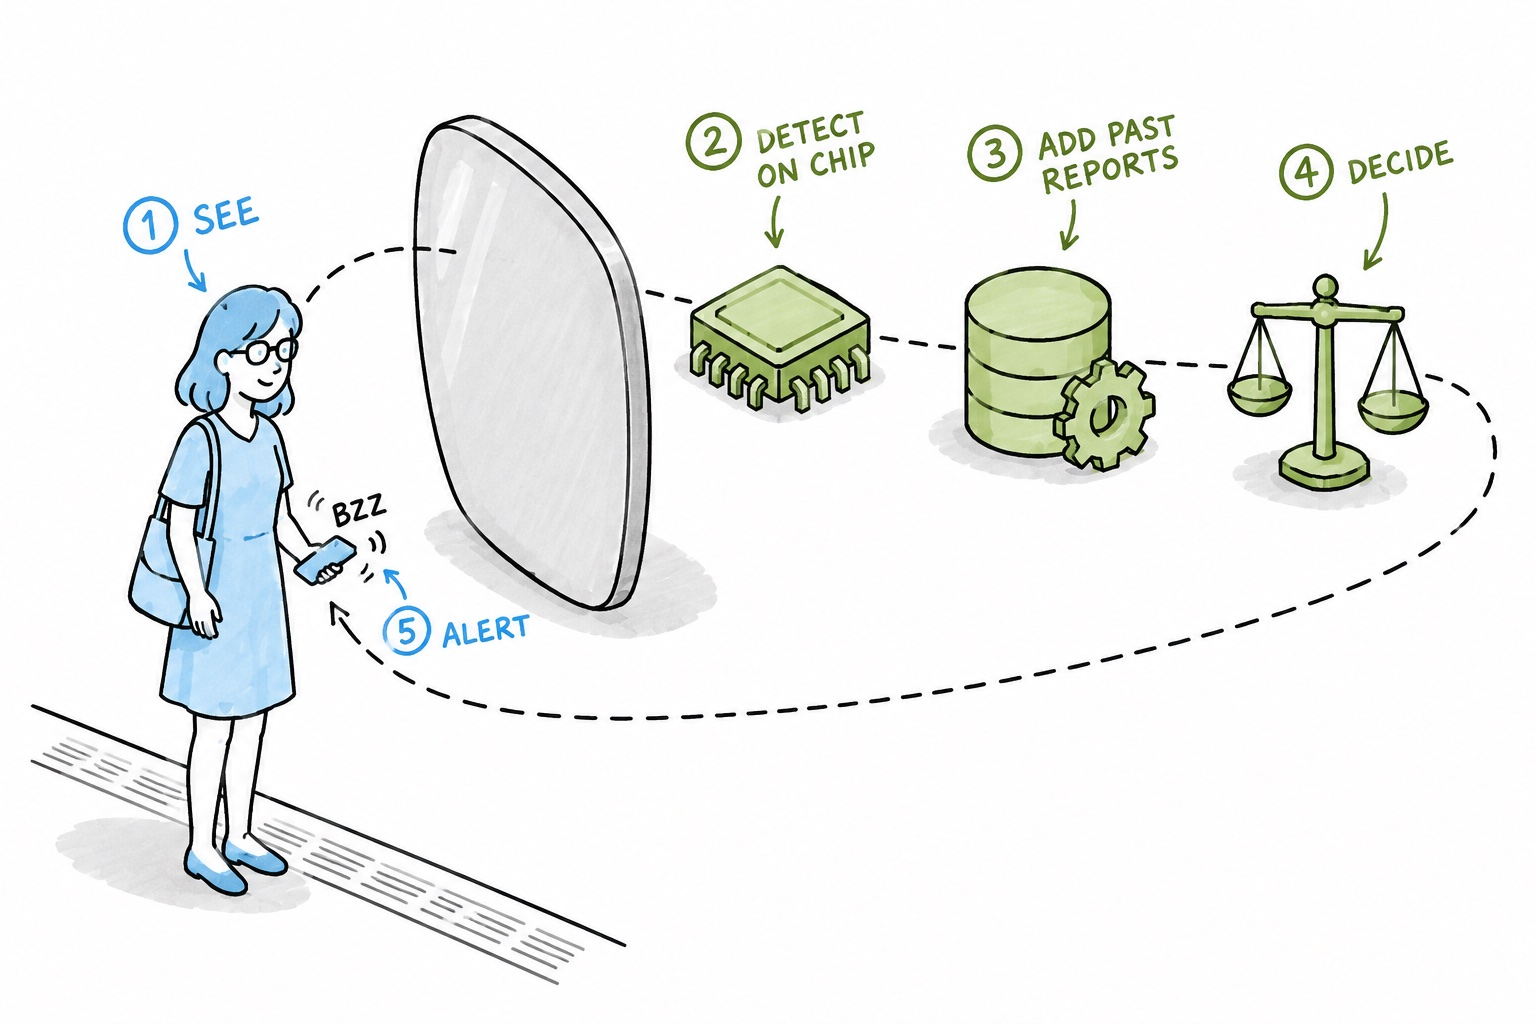
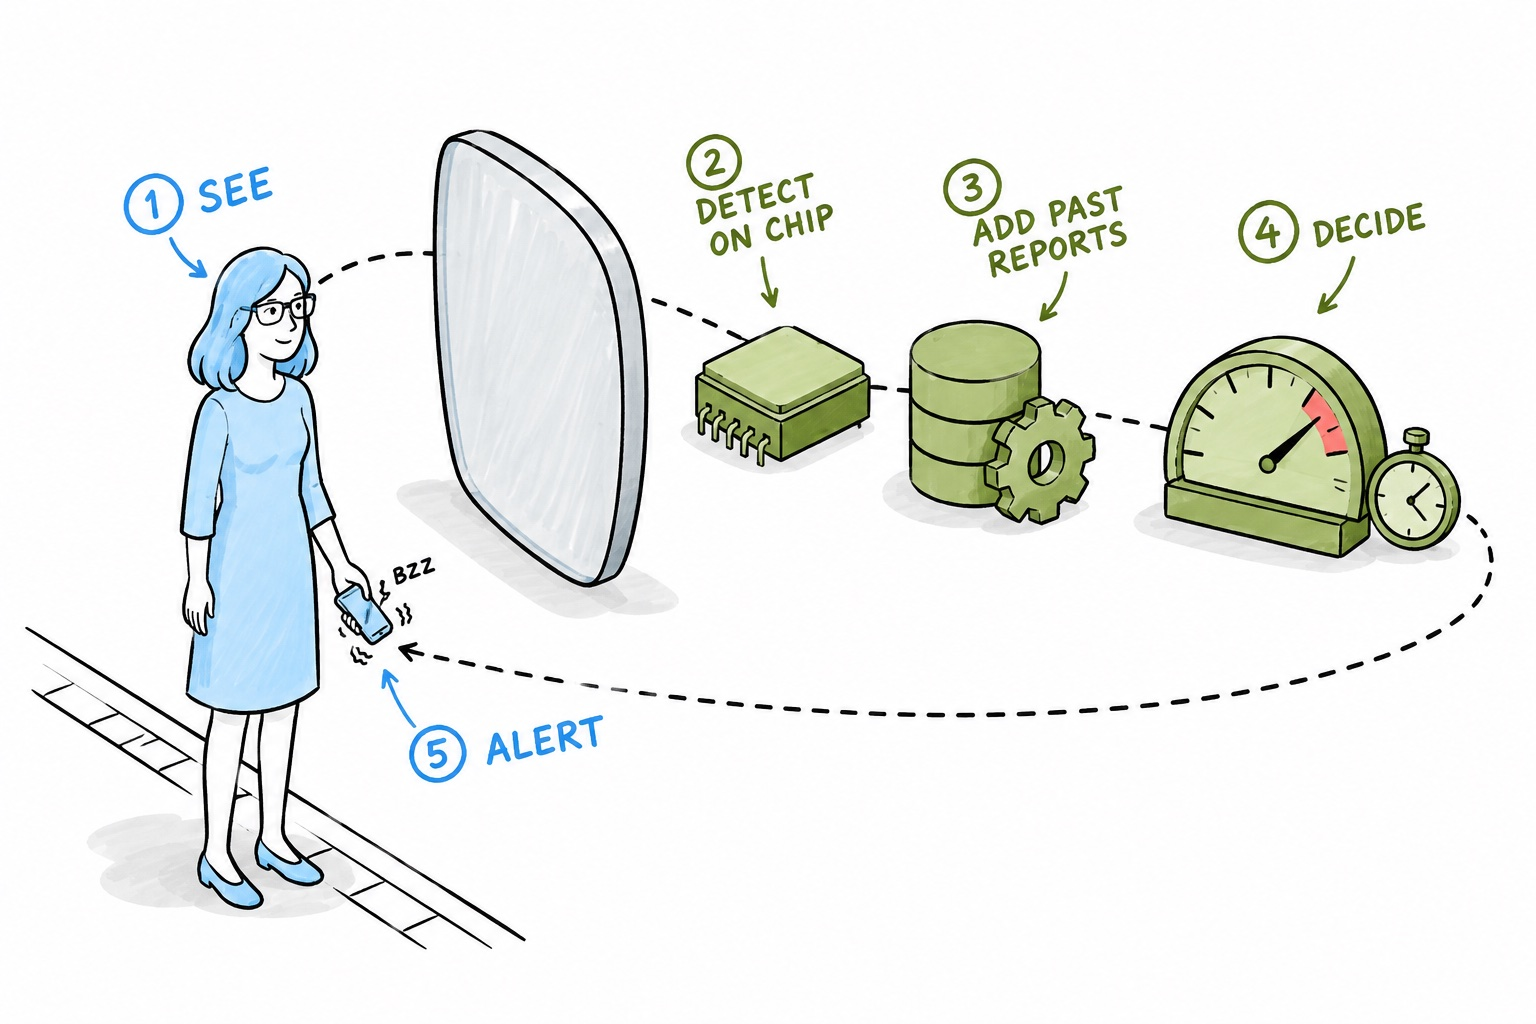
SafeVision: swap scale for gauge and timer in loop sketch

diff --git a/work/safevision/index.html b/work/safevision/index.html
@@ -182,7 +182,7 @@
       <h3>The loop in one picture</h3>
       <p>The loop runs all the time. The glasses see the scene, detect people on the chip, add past reports for that stop, and decide whether anything has changed. Only then do they alert the rider: a signal in the lens and a buzz on the phone, where one tap calls or shares location. The big lens in the sketch is the line nothing crosses. Video stays behind it, on the glasses.</p>
       <figure class="figure sketch-wide">
-        <img src="images/how-flow.jpg?v=3" width="1536" height="1024" loading="lazy" alt="Hand drawn isometric sketch of the SafeVision loop. 1 See: a rider in blue wearing glasses on a platform. Behind her stands a giant glasses lens. Behind the lens sit three green objects: 2 Detect on chip, 3 Add past reports, a database with a gear, and 4 Decide, a balance scale. A dashed line returns to 5 Alert, the phone buzzing in her hand." />
+        <img src="images/how-flow.jpg?v=4" width="1536" height="1024" loading="lazy" alt="Hand drawn isometric sketch of the SafeVision loop. 1 See: a rider in blue wearing glasses on a platform. Behind her stands a giant glasses lens. Behind the lens sit three green objects: 2 Detect on chip, 3 Add past reports, a database with a gear, and 4 Decide, a gauge with its needle in a red zone and a stopwatch beside it. A dashed line returns to 5 Alert, the phone buzzing in her hand." />
       </figure>
 
       <h3>The pipeline</h3>
